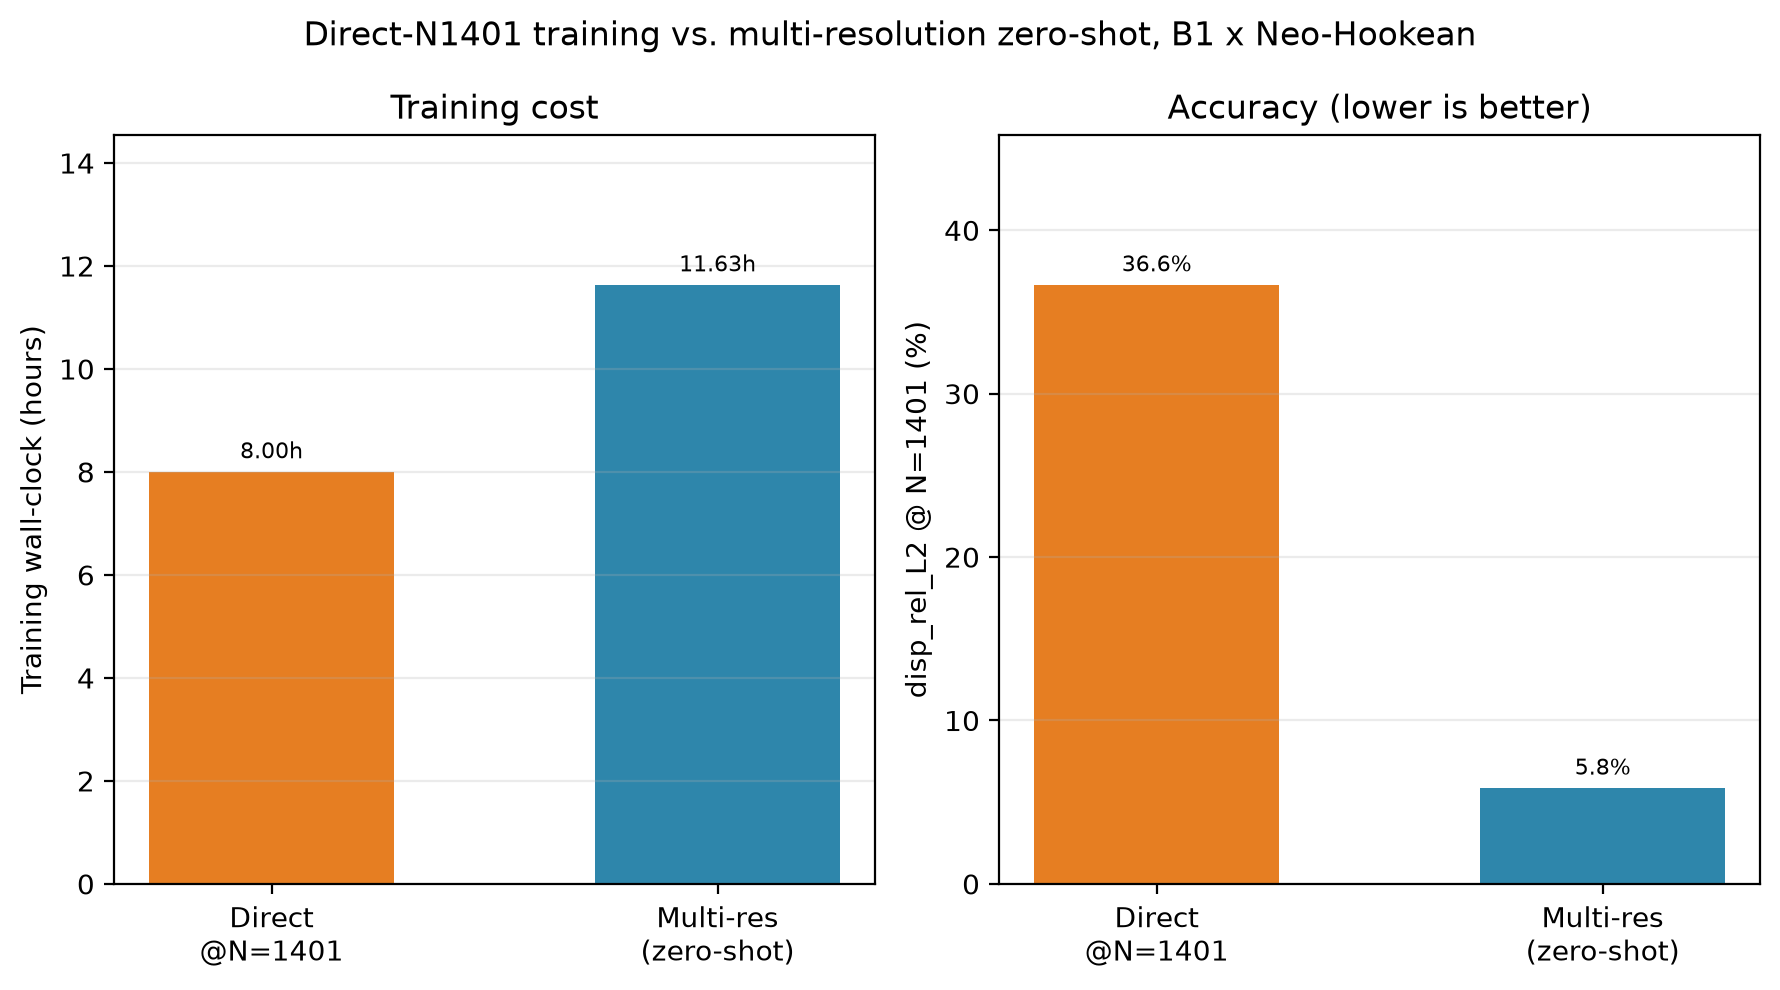
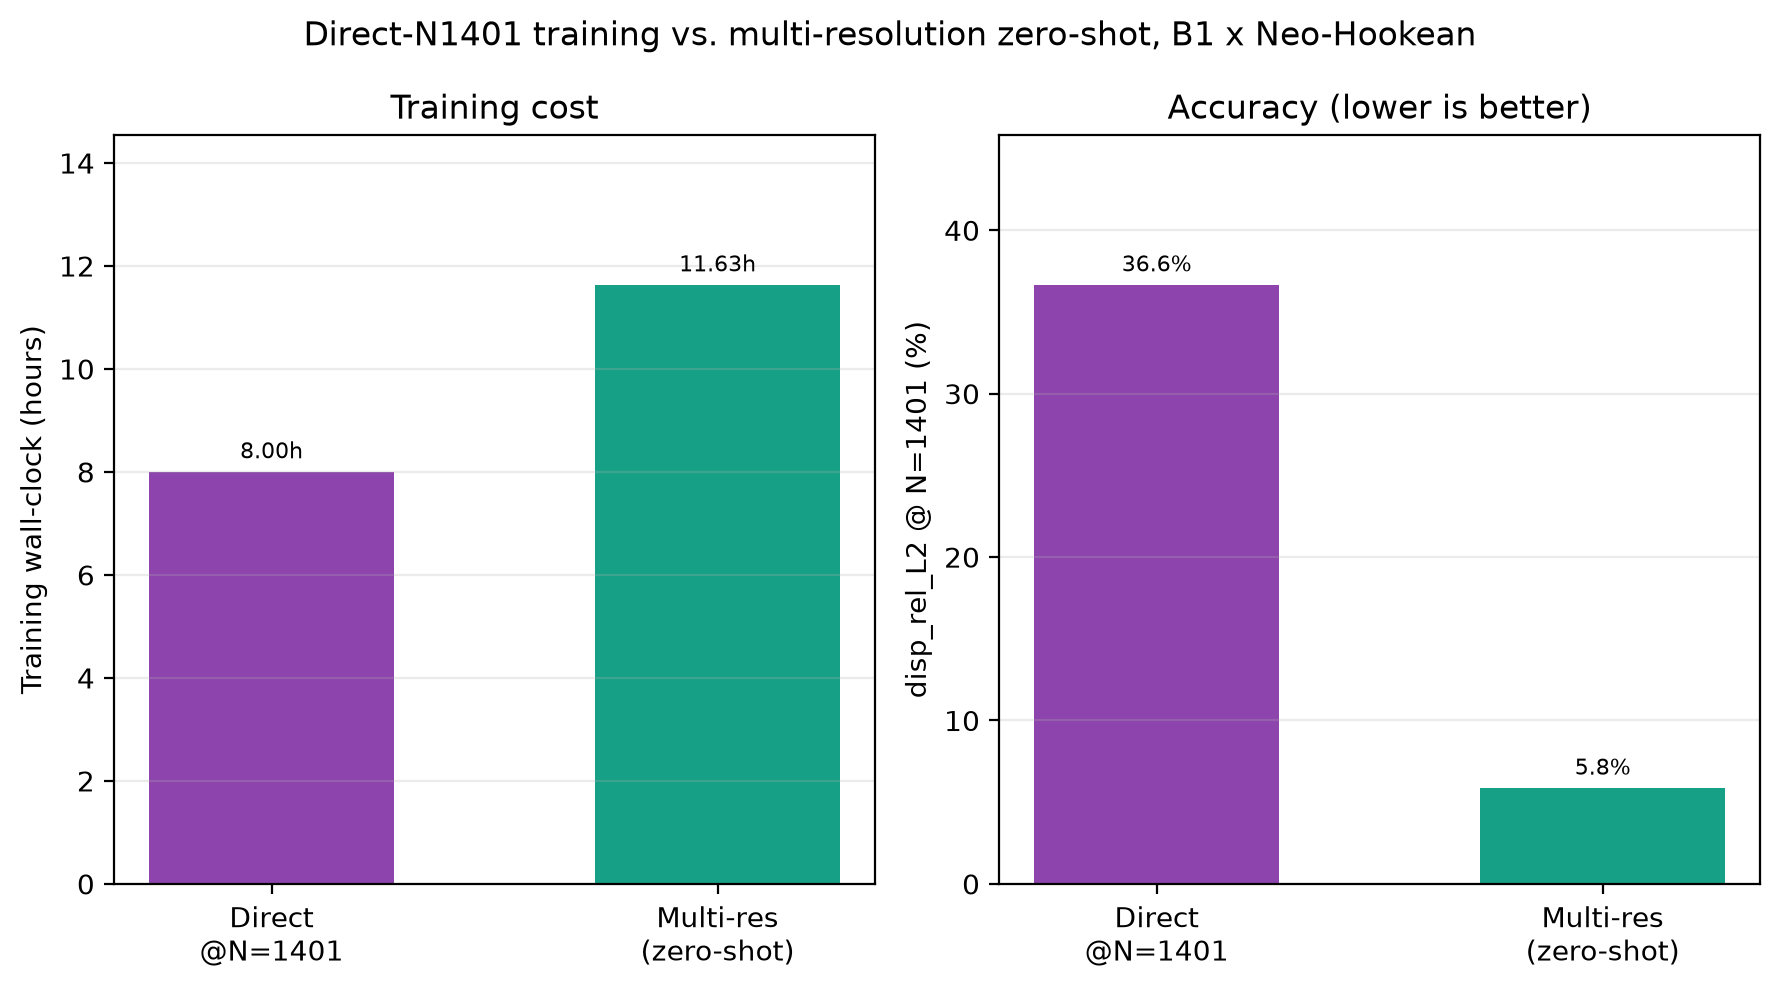
Recolor the two draft figures per Omar's feedback
Direct-N1401 ablation: purple/teal, consistent per-method (not
good/bad) since direct is cheaper but less accurate -- a single
good/bad coloring would have flipped meaning between the two panels.
Peak-stress QoI: blue/gold.

Claude-Session: https://claude.ai/code/session_01HX6Lr5YENQbEkvto9y2AB8

diff --git a/Practical_Examples/report_builders/make_figure_direct_n1401_ablation.py b/Practical_Examples/report_builders/make_figure_direct_n1401_ablation.py
@@ -12,7 +12,13 @@ matplotlib.use('Agg')
 import matplotlib.pyplot as plt
 import numpy as np
 
-from plot_style import PRIMARY, SECONDARY, add_bar_labels
+from plot_style import add_bar_labels
+
+# Two consistent colors for the METHOD, used the same way in both panels
+# (not "good/bad" coloring, which would flip meaning between the cost
+# panel, where direct is cheaper, and the accuracy panel, where it is worse).
+DIRECT_COLOR = '#8E44AD'    # purple
+MULTIRES_COLOR = '#16A085'  # teal
 
 OUT = os.path.join(os.path.dirname(os.path.abspath(__file__)), 'figures')
 os.makedirs(OUT, exist_ok=True)
@@ -23,14 +29,14 @@ ACCURACY_PCT = [36.65, 5.85]
 
 fig, axes = plt.subplots(1, 2, figsize=(9, 5), dpi=200)
 
-bars0 = axes[0].bar(LABELS, TRAIN_HOURS, color=[SECONDARY, PRIMARY], width=0.55)
+bars0 = axes[0].bar(LABELS, TRAIN_HOURS, color=[DIRECT_COLOR, MULTIRES_COLOR], width=0.55)
 add_bar_labels(axes[0], bars0, fmt='{:.2f}h')
 axes[0].set_ylabel('Training wall-clock (hours)')
 axes[0].set_title('Training cost')
 axes[0].set_ylim(top=max(TRAIN_HOURS) * 1.25)
 axes[0].grid(True, axis='y', alpha=0.25)
 
-bars1 = axes[1].bar(LABELS, ACCURACY_PCT, color=[SECONDARY, PRIMARY], width=0.55)
+bars1 = axes[1].bar(LABELS, ACCURACY_PCT, color=[DIRECT_COLOR, MULTIRES_COLOR], width=0.55)
 add_bar_labels(axes[1], bars1, fmt='{:.1f}%')
 axes[1].set_ylabel('disp_rel_L2 @ N=1401 (%)')
 axes[1].set_title('Accuracy (lower is better)')

diff --git a/Practical_Examples/report_builders/make_figure_peak_stress_qoi.py b/Practical_Examples/report_builders/make_figure_peak_stress_qoi.py
@@ -16,7 +16,13 @@ matplotlib.use('Agg')
 import matplotlib.pyplot as plt
 import numpy as np
 
-from plot_style import PRIMARY, SECONDARY, add_bar_labels
+from plot_style import add_bar_labels
+
+# Two consistent colors for the QoI being compared -- teal/purple pair,
+# distinct from the direct-N1401 ablation figure's own palette so the two
+# figures are never visually confused for showing the same comparison.
+L2_COLOR = '#3B7EA1'
+PEAK_STRESS_COLOR = '#D4A017'
 
 OUT = os.path.join(os.path.dirname(os.path.abspath(__file__)), 'figures')
 os.makedirs(OUT, exist_ok=True)
@@ -30,8 +36,8 @@ x = np.arange(len(CASES))
 width = 0.35
 
 fig, ax = plt.subplots(figsize=(9.5, 5.5), dpi=200)
-bars0 = ax.bar(x - width / 2, DISP_L2, width, label='disp_rel_L2', color=PRIMARY)
-bars1 = ax.bar(x + width / 2, PEAK_STRESS, width, label='peak_stress_rel_err', color=SECONDARY)
+bars0 = ax.bar(x - width / 2, DISP_L2, width, label='disp_rel_L2', color=L2_COLOR)
+bars1 = ax.bar(x + width / 2, PEAK_STRESS, width, label='peak_stress_rel_err', color=PEAK_STRESS_COLOR)
 
 add_bar_labels(ax, bars0, fmt='{:.1f}', fontsize=8)
 add_bar_labels(ax, bars1, fmt='{:.1f}', fontsize=8)
